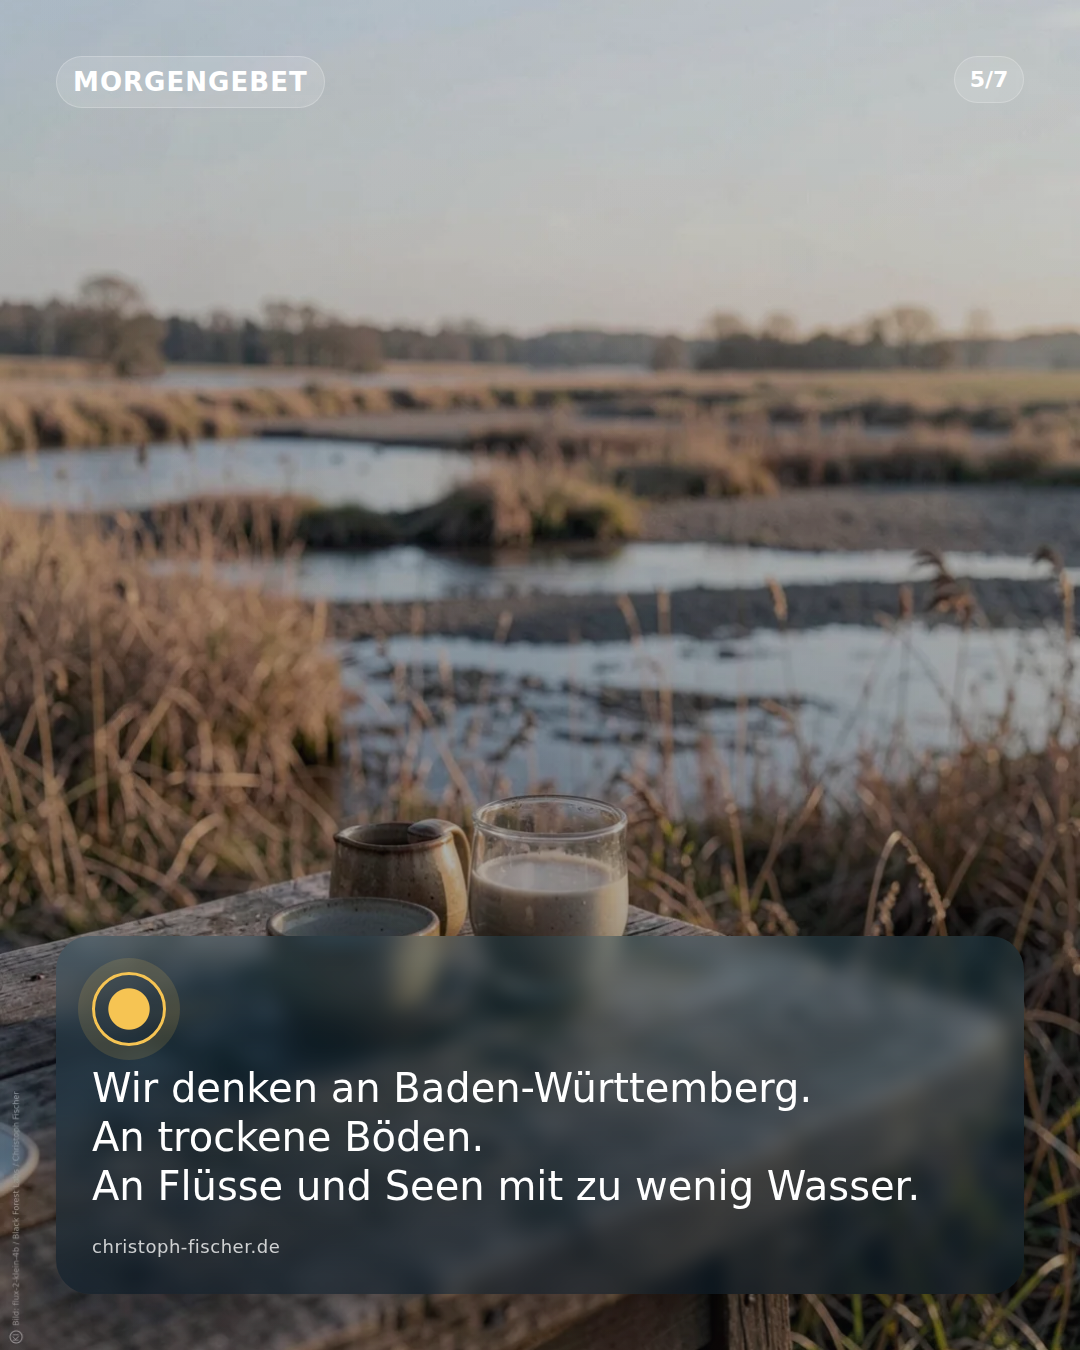
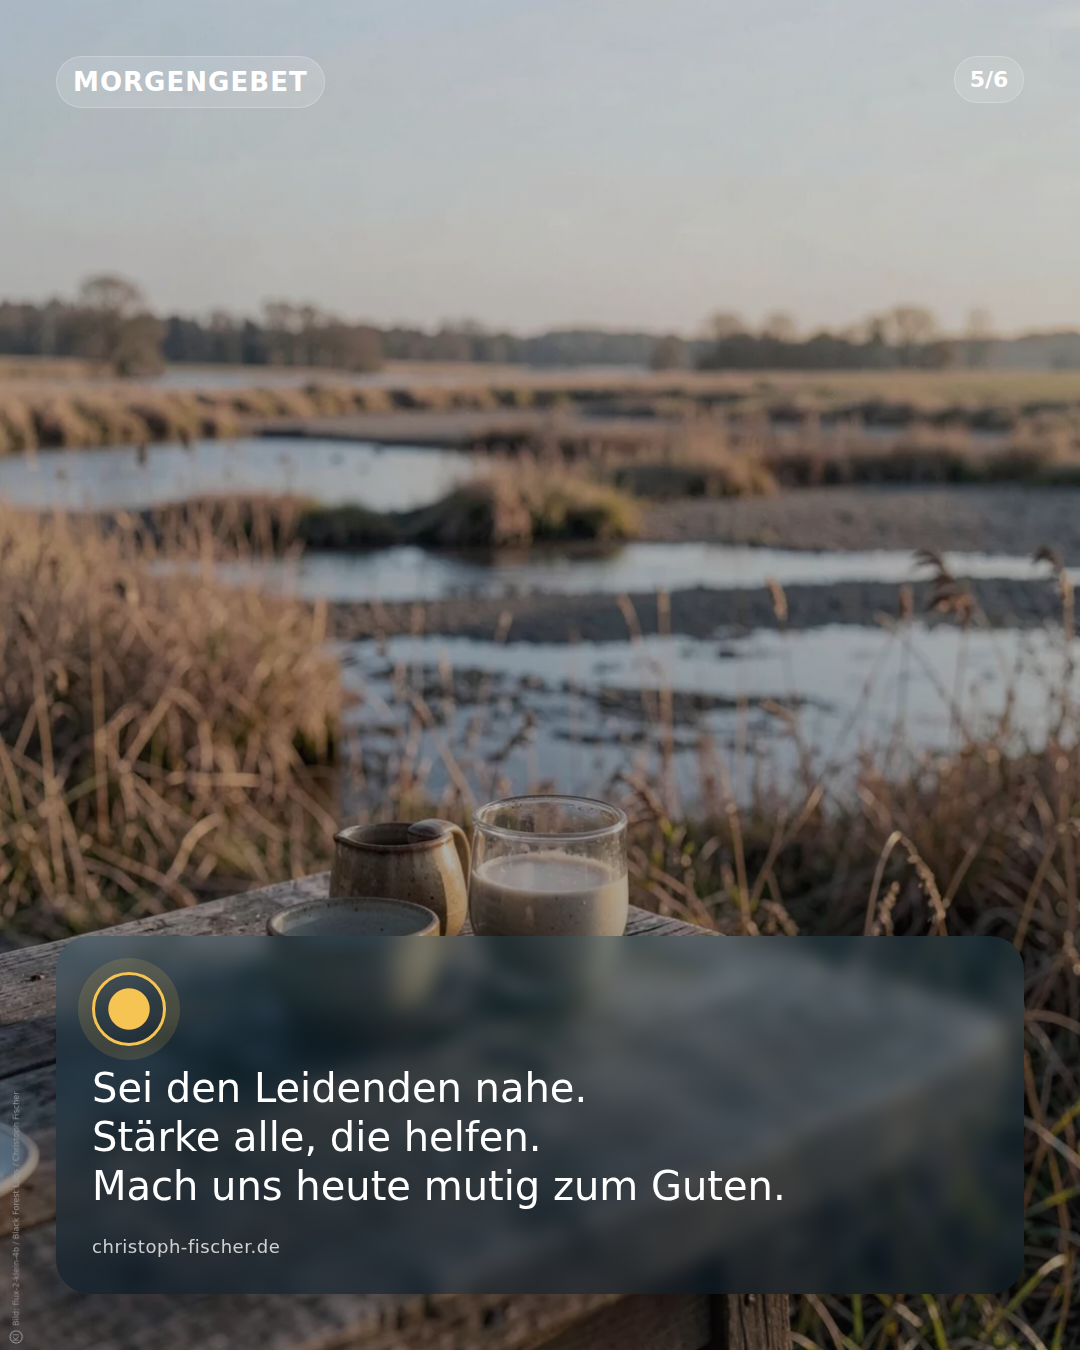
Update content: GET /files/2026-08-17/prayer-morning-2026-08-17/render-facebook-mastodon-01.png

Changed region(s): [[0.0917, 0.7778, 0.8556, 0.9022]]

diff --git a/2026-08-17/prayer-morning-2026-08-17/render-instagram-feed-06.html b/2026-08-17/prayer-morning-2026-08-17/render-instagram-feed-06.html
@@ -355,13 +355,13 @@
       <section class="layout">
         <div class="panel-meta">
           <div class="eyebrow">Morgengebet</div>
-          <div class="pager">6/7</div>
+          <div class="pager">6/6</div>
         </div>
         <section class="panel prayer-panel">
   <div class="prayer-symbol prayer-symbol-morning" aria-hidden="true"></div>
-  <p class="body-text" data-overflow-id="primary-text">Sei den Leidenden nahe.
-Stärke alle, die helfen.
-Mach uns heute mutig zum Guten.</p>
+  <p class="body-text" data-overflow-id="primary-text">Deine Zukunft kommt uns entgegen.
+Darum beginnen wir diesen Tag mit Hoffnung.
+Amen.</p>
   <p class="sender-mark">christoph-fischer.de</p>
 </section>
 
